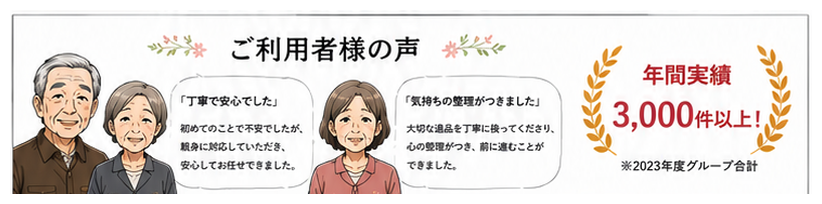
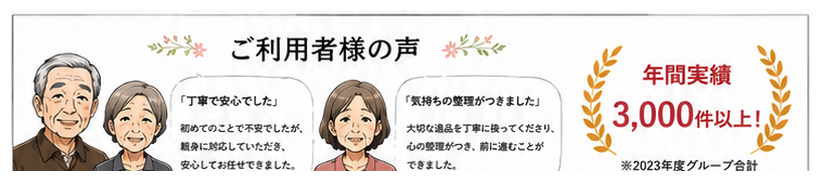
Polish manga paper composition

diff --git a/ihinseiri-lp/styles.css b/ihinseiri-lp/styles.css
@@ -3713,3 +3713,57 @@ h3 {
   width: 108%;
   justify-self: center;
 }
+
+/* Final manga paper-fit tuning */
+.manga-layout-consult-flow .manga-phone-panel {
+  width: 136%;
+  margin-right: -18%;
+}
+
+.manga-layout-consult-flow .manga-fee-panel {
+  width: 76%;
+  max-width: none;
+  justify-self: end;
+  margin-top: -32px;
+  margin-right: 12%;
+}
+
+.manga-layout-estimate-flow .manga-scroll-panel {
+  width: 104%;
+}
+
+.manga-panel-story .manga-layout-single:not(.manga-layout-estimate-flow) {
+  margin-top: -4px;
+}
+
+@media (max-width: 900px) {
+  .manga-layout-consult-flow .manga-phone-panel {
+    width: 132%;
+    margin-left: -18%;
+    margin-right: 0;
+  }
+
+  .manga-layout-consult-flow .manga-fee-panel {
+    width: 82%;
+    margin-top: -24px;
+    margin-left: 3%;
+    margin-right: 0;
+  }
+
+  .manga-layout-estimate-flow .manga-scroll-panel {
+    width: 102%;
+  }
+}
+
+@media (max-width: 520px) {
+  .manga-layout-consult-flow .manga-phone-panel {
+    width: 136%;
+    margin-left: -20%;
+  }
+
+  .manga-layout-consult-flow .manga-fee-panel {
+    width: 86%;
+    margin-top: -24px;
+    margin-left: 2%;
+  }
+}

diff --git a/ihinseiri-lp/index.html b/ihinseiri-lp/index.html
@@ -22,7 +22,7 @@
       name="twitter:description"
       content="認定遺品整理士と古物商許可のある体制で、遺品整理・買取相談・特殊清掃・原状回復まで安心して相談できます。"
     />
-    <link rel="stylesheet" href="./styles.css?v=20260621k" />
+    <link rel="stylesheet" href="./styles.css?v=20260621l" />
     <link rel="stylesheet" href="./badge-fix.css?v=20260619c" />
   </head>
   <body>